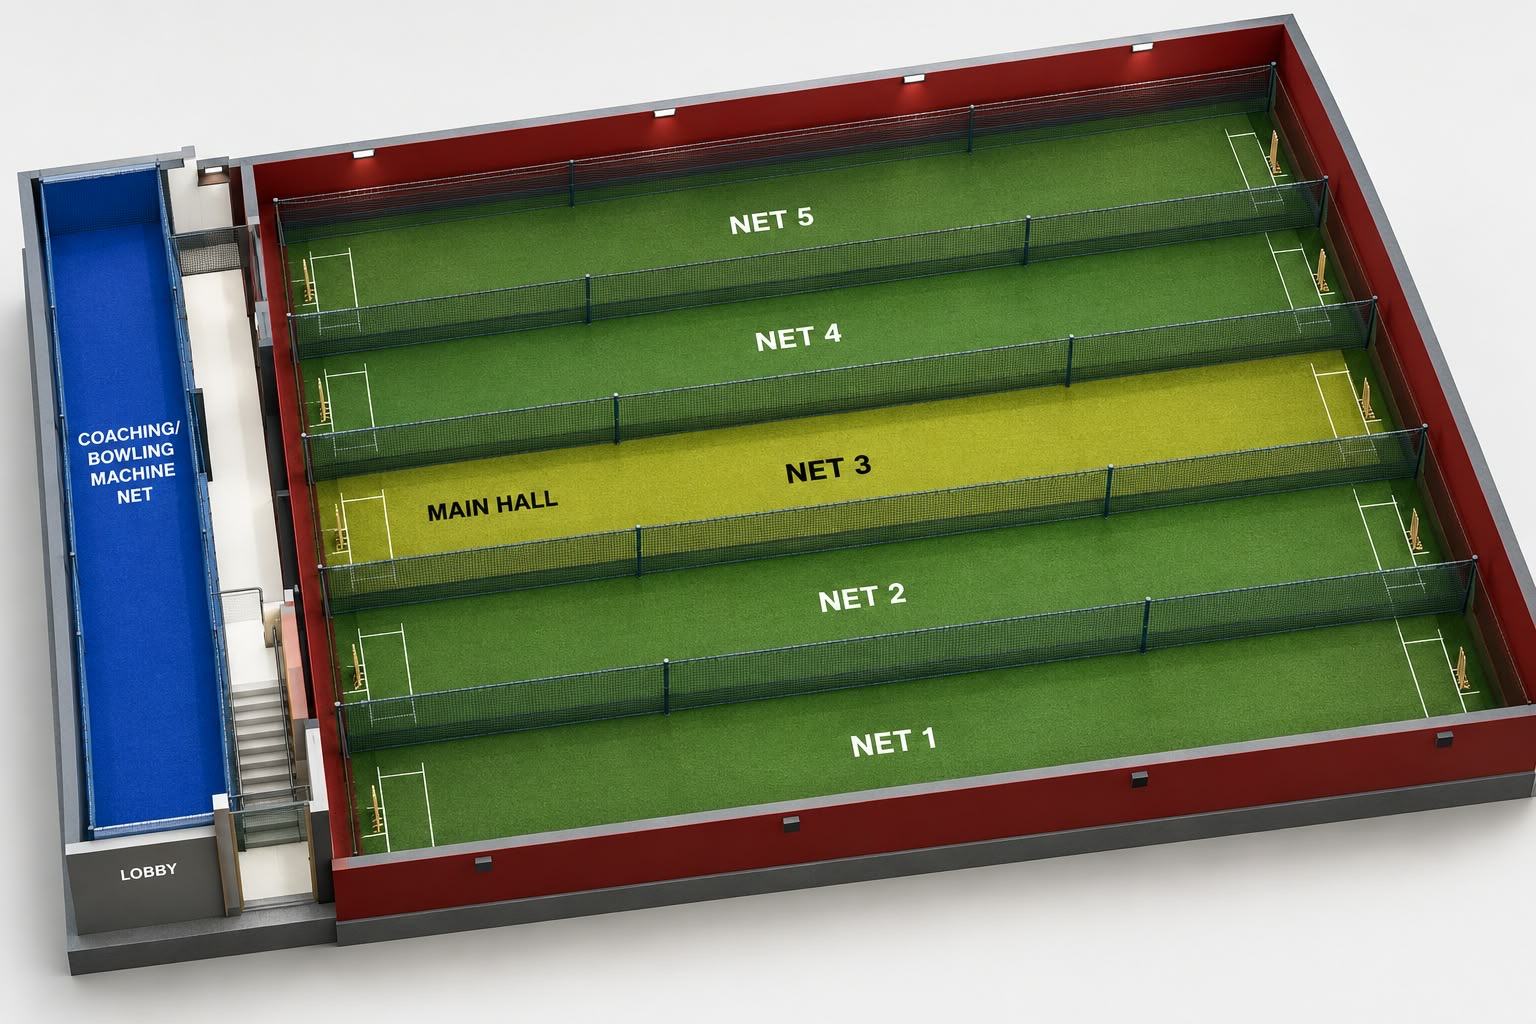
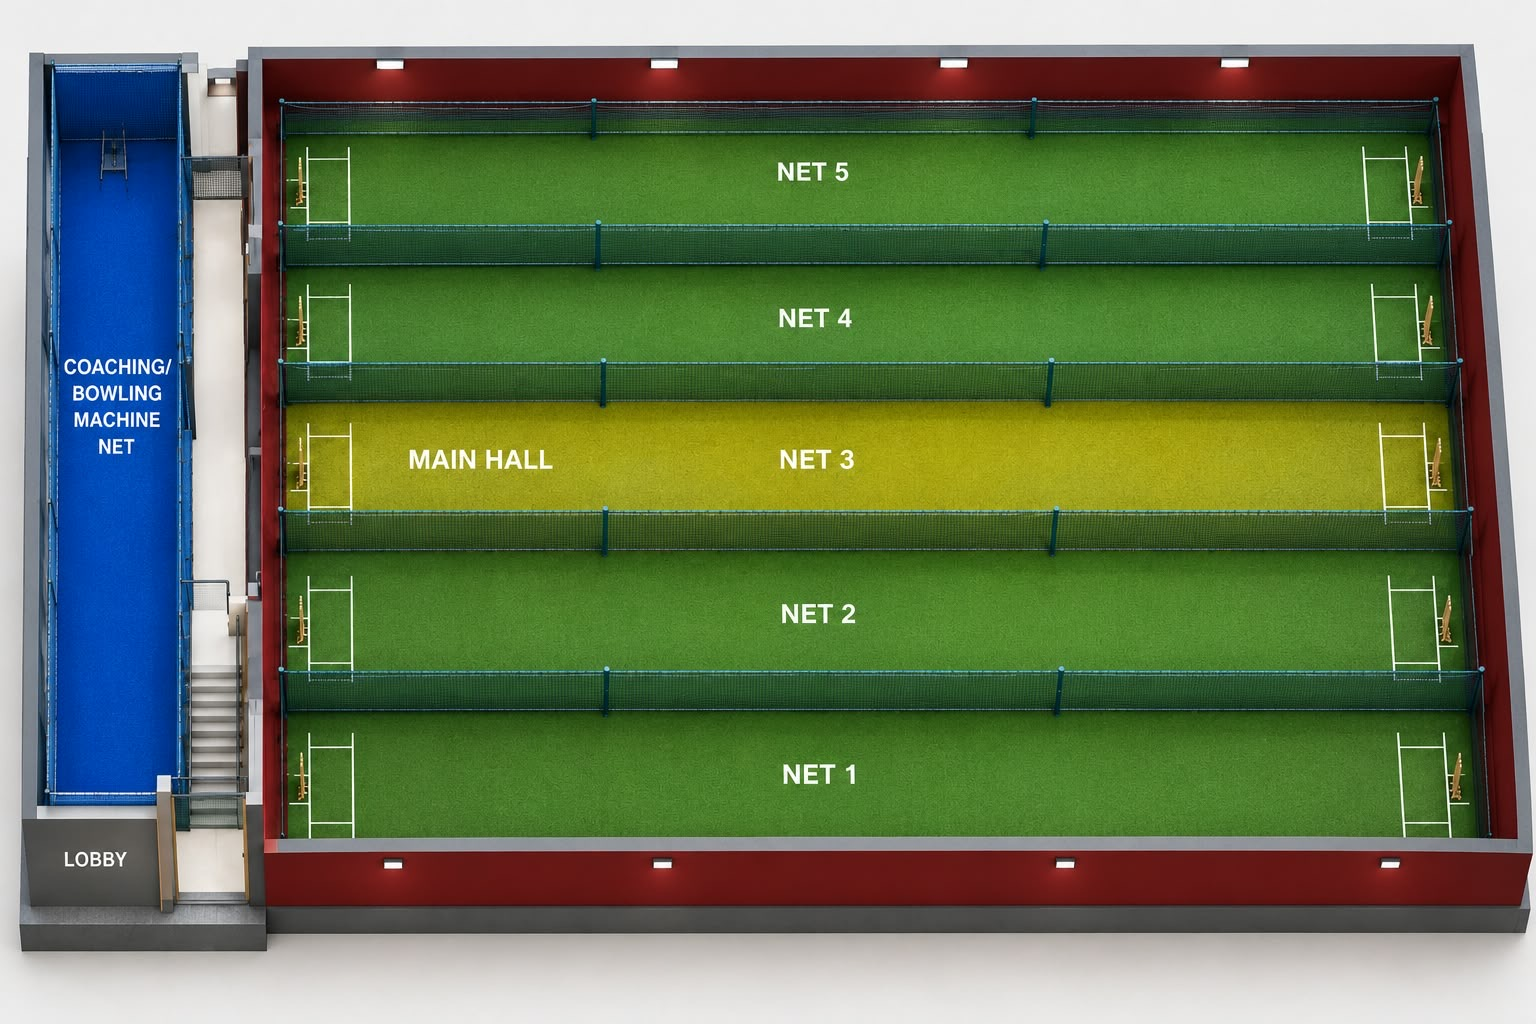
Dorset Cricket Center Init

diff --git a/src/data/dcc.ts b/src/data/dcc.ts
@@ -91,8 +91,8 @@ export const facilities: Facility[] = [
       { label: 'Netting', value: 'Full-height perimeter mesh' },
     ],
     hotspot: {
-      polygon: '348,735 1465,610 1492,705 362,868',
-      center: { x: 920, y: 720 },
+      polygon: '285,690 1472,690 1478,835 285,835',
+      center: { x: 880, y: 762 },
     },
   },
   {
@@ -118,8 +118,8 @@ export const facilities: Facility[] = [
       { label: 'Netting', value: 'Ceiling-suspended mesh' },
     ],
     hotspot: {
-      polygon: '330,600 1415,475 1465,610 348,735',
-      center: { x: 890, y: 605 },
+      polygon: '285,545 1464,545 1472,690 285,690',
+      center: { x: 878, y: 618 },
     },
   },
   {
@@ -145,8 +145,8 @@ export const facilities: Facility[] = [
       { label: 'Viewing', value: 'Direct from Mezzanine' },
     ],
     hotspot: {
-      polygon: '312,465 1365,345 1415,475 330,600',
-      center: { x: 860, y: 485 },
+      polygon: '285,400 1456,400 1464,545 285,545',
+      center: { x: 875, y: 472 },
     },
   },
   {
@@ -172,8 +172,8 @@ export const facilities: Facility[] = [
       { label: 'Access', value: 'Side aisle walkway' },
     ],
     hotspot: {
-      polygon: '295,335 1320,218 1365,345 312,465',
-      center: { x: 830, y: 360 },
+      polygon: '285,258 1448,258 1456,400 285,400',
+      center: { x: 870, y: 329 },
     },
   },
   {
@@ -199,8 +199,8 @@ export const facilities: Facility[] = [
       { label: 'Netting', value: 'Heavyweight nylon mesh' },
     ],
     hotspot: {
-      polygon: '278,208 1276,92 1320,218 295,335',
-      center: { x: 800, y: 235 },
+      polygon: '285,116 1440,116 1448,258 285,258',
+      center: { x: 865, y: 187 },
     },
   },
   {
@@ -226,8 +226,8 @@ export const facilities: Facility[] = [
       { label: 'Turf', value: 'Cobalt blue specialist surface' },
     ],
     hotspot: {
-      polygon: '38,172 160,165 232,805 86,815',
-      center: { x: 135, y: 500 },
+      polygon: '38,60 187,60 187,805 38,805',
+      center: { x: 112, y: 432 },
     },
   },
 ]

diff --git a/src/components/FacilityModelViewer.tsx b/src/components/FacilityModelViewer.tsx
@@ -128,7 +128,6 @@ export default function FacilityModelViewer({
               {facilities.map((fac) => {
                 const isSelected = selectedFacilityId === fac.id
                 const isHovered = hoveredFacilityId === fac.id
-                const isMachineLane = fac.id === 'coaching-lane'
 
                 return (
                   <polygon
@@ -140,18 +139,14 @@ export default function FacilityModelViewer({
                     onMouseLeave={() => setHoveredFacilityId(null)}
                     fill={
                       isSelected
-                        ? isMachineLane
-                          ? 'rgba(0, 47, 81, 0.38)'
-                          : 'rgba(2, 132, 199, 0.32)'
+                        ? 'rgba(2, 132, 199, 0.35)'
                         : isHovered
-                          ? 'rgba(2, 132, 199, 0.16)'
+                          ? 'rgba(2, 132, 199, 0.18)'
                           : 'rgba(0, 0, 0, 0.001)'
                     }
                     stroke={
                       isSelected
-                        ? isMachineLane
-                          ? '#002f51'
-                          : '#005ea6'
+                        ? '#005ea6'
                         : isHovered
                           ? '#0284c7'
                           : 'rgba(255, 255, 255, 0.5)'
